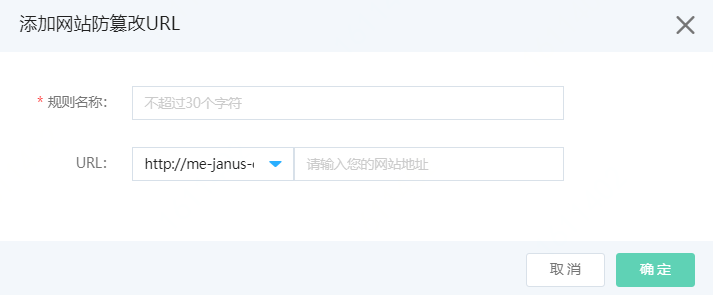
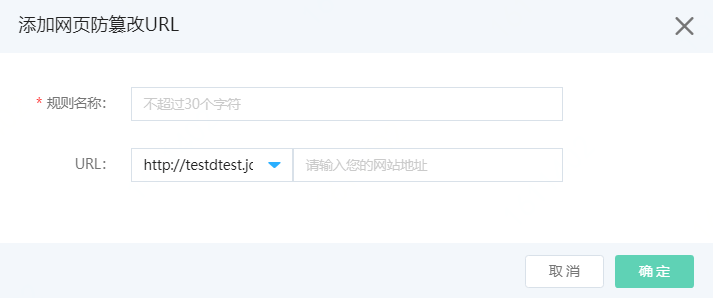
update toc and others

diff --git a/documentation/Cloud-Security/Web-Application-Firewall/Web-Protection-Configure/Access-Control/Set-Up-Blacklist-Rules.md b/documentation/Cloud-Security/Web-Application-Firewall/Web-Protection-Configure/Access-Control/Set-Up-Blacklist-Rules.md
@@ -17,6 +17,12 @@
 - Method黑名单帮助您阻断指定请求方法的访问请求。
 - Cookie黑名单帮助您阻断携带指定Cookie信息的访问请求。
 
+包年包月开通的Web应用防火墙实例，其黑名单功能有以下限制。
+
+| 功能       | 说明                             | 高级版   | 企业版   | 旗舰版   |
+| :--------- | :------------------------------- | :------- | :------- | :------- |
+| 黑名单规则 | 最多支持添加的黑名单规则的数量。 | 20（条） | 50（条） | 50（条） |
+
 ## 操作步骤
 
 1. 登录[Web应用防火墙控制台](https://cloudwaf-console.jdcloud.com/overview/business)。
@@ -44,10 +50,10 @@
        ![image](../../../../../image/WAF/protect-configure/13.Black-List-Geo.png)
 
    - **URI黑名单**：URI类型支持填写指定URI，匹配类型可以选择完全匹配、前缀匹配、正则匹配。当请求的目标URL命中匹配规则，选择执行：**封禁**、**302跳转**或**验证码**。配置完成后，单击页面下方的**确定**。
-  ![image](../../../../../image/WAF/protect-configure/15.Black-List-URI.png)
+    ![image](../../../../../image/WAF/protect-configure/15.Black-List-URI.png)
    
 - **Method黑名单**：请求方法类型支持选择匹配值：GET、POST、HEAD、PUT、DELETE、PATCH、COPY、OPTIONS、LINK、UNLINK、PURGE、LOCK、UNOCK、PROPFIND、VIEW。请求Method命中方法后，可以选择执行：**封禁**、**302跳转**或**验证码**。配置完成后，单击页面下方的**确定**。
-     ![image](../../../../../image/WAF/protect-configure/14.Black-List-Method.png)
+     	![image](../../../../../image/WAF/protect-configure/14.Black-List-Method.png)
 
    - **Cookie黑名单**：添加cookie类型黑名单，根据请求Cookie添加匹配规则：
 
@@ -56,34 +62,34 @@
      - 匹配类型：可选完全匹配、前缀匹配或正则匹配
 
      - 匹配值：待匹配字符串
-   
+  
      - 规则执行：可选择**封禁**、**302跳转**或**验证码**。
-   
+  
        配置完成后，单击页面下方的**确定**。
 
      ![image](../../../../../image/WAF/protect-configure/16.Black-List-Cookie.png)
-   
+  
    - **Header黑名单：**添加Header类型黑名单，根据请求Header的key添加匹配规则：
-   
+  
      - key：指Header的key，可选择，可编辑。
-   
+  
      - 匹配类型：可选完全匹配、前缀匹配或正则匹配。
-   
+  
      - 匹配值：待匹配字符串。
-   
+  
      - 规则执行：可选择**封禁**、**302跳转**或**验证码**。
-   
+  
        配置完成后，单击页面下方的**确定**。
-   
-   ![image](../../../../../image/WAF/protect-configure/17.Black-List-Header.png)
-   
+     
+     ![image](../../../../../image/WAF/protect-configure/17.Black-List-Header.png)
+  
    执行动作，如下表
-   
-   | 执行动作 | 配置                                            | 动作含义                                                     |
-   | -------- | ----------------------------------------------- | ------------------------------------------------------------ |
-   | 拦截     | 默认返回493页面，点击右侧笔，支持自定义拦截页面 | 对于命中规则的请求，将被拦截返回配置页面                     |
-   | 302跳转  | 配置跳转的目标页面                              | 对于命中规则的请求，跳转到配置的目标页面                     |
-   | 验证码   | 无需配置                                        | 对于命中规则的请求，弹出验证码二次校验，验证通过可以访问，不通过则拦截。 |
-   
+  
+  | 执行动作 | 配置                                            | 动作含义                                                     |
+  | -------- | ----------------------------------------------- | ------------------------------------------------------------ |
+  | 拦截     | 默认返回493页面，点击右侧笔，支持自定义拦截页面 | 对于命中规则的请求，将被拦截返回配置页面                     |
+  | 302跳转  | 配置跳转的目标页面                              | 对于命中规则的请求，跳转到配置的目标页面                     |
+  | 验证码   | 无需配置                                        | 对于命中规则的请求，弹出验证码二次校验，验证通过可以访问，不通过则拦截。 |
+  
    成功添加黑名单规则后，规则默认不开启。您可以在规则列表中看到新建的规则，且其**防护状态**开关未开启。
 

diff --git a/documentation/Cloud-Security/Web-Application-Firewall/Web-Protection-Configure/Access-Control/Set-Up-Whitelist-Rules.md b/documentation/Cloud-Security/Web-Application-Firewall/Web-Protection-Configure/Access-Control/Set-Up-Whitelist-Rules.md
@@ -11,6 +11,12 @@
 
 白名单支持添加Method、URI、IP、Cookie、Geo（地理区域）、Header等维度的白名单。一般应用于放行因触发规则被误拦截的特殊业务请求，可以直接放行或者选择不检测对应的模块。
 
+包年包月开通的Web应用防火墙实例，其白名单功能有以下限制。
+
+| 功能       | 说明                             | 高级版   | 企业版   | 旗舰版   |
+| :--------- | :------------------------------- | :------- | :------- | :------- |
+| 白名单规则 | 最多支持添加的白名单规则的数量。 | 20（条） | 50（条） | 50（条） |
+
 ## 操作步骤
 
 1. 登录[Web应用防火墙控制台](https://cloudwaf-console.jdcloud.com/overview/business)。
@@ -33,9 +39,10 @@
 
      - 选择中国大陆时，可以选择地域匹配值，请求IP所属地区命中地域后，可以选择直接放行，或者选择后续执行阶段。配置完成后，单击页面下方的**确定**。
      - 选择海外地区时，请求IP所属地区命中海外地域后，可以选择直接放行，或者选择后续执行阶段。配置完成后，单击页面下方的**确定**。
-
-![image](../../../../../image/WAF/protect-configure/25.White-List-Geo.png)
      
+     ![image](../../../../../image/WAF/protect-configure/25.White-List-Geo.png)
+          
+
 - **URI白名单**：URI类型支持填写目标URI，匹配类型可以选择完全匹配、前缀匹配、正则匹配。可以选择直接放行，或者选择后续执行阶段。配置完成后，单击页面下方的**确定**。
   
   ![image](../../../../../image/WAF/protect-configure/22.White-List-URI.png)

diff --git a/documentation/Cloud-Security/Web-Application-Firewall/Web-Protection-Configure/Web-Compliance/Set-Up-Sensitive-Information-Leakage-Prevention.md b/documentation/Cloud-Security/Web-Application-Firewall/Web-Protection-Configure/Web-Compliance/Set-Up-Sensitive-Information-Leakage-Prevention.md
@@ -11,6 +11,12 @@
 
 敏感信息防泄漏功能是Web应用防火墙针对网安法提出的“网络运营者应当采取技术措施和其他必要措施，确保其收集的个人信息安全，防止信息泄露、毁损、丢失。在发生或者可能发生个人信息泄露、毁损、丢失的情况时，应当立即采取补救措施，按照规定及时告知用户并向有关主管部门报告”所给出的安全防护方案。敏感信息防泄漏针对网站中存在的敏感信息（尤其是电话号码、身份证、信用卡）泄漏、敏感词汇泄露提供脱敏和告警措施。
 
+包年包月开通的Web应用防火墙实例，其敏感信息防泄漏功能有以下限制。
+
+| 功能           | 说明                                     | 高级版   | 企业版   | 旗舰版   |
+| :------------- | :--------------------------------------- | :------- | :------- | :------- |
+| 敏感信息防泄漏 | 最多支持添加的敏感信息防泄漏规则的数量。 | 10（条） | 20（条） | 20（条） |
+
 ## **工作原理**
 
 敏感信息防泄露按照配置好的防护规则，检测响应页面中是否带有身份证号、电话号码、银行卡号等敏感信息，并在发现敏感信息匹配命中后，根据规则中指定的匹配动作触发告警或者敏感信息过滤。敏感信息过滤动作指以*号替换敏感信息部分，达到保护敏感信息的效果。

diff --git a/documentation/Cloud-Security/Web-Application-Firewall/Web-Protection-Configure/Access-Control/Set-Up-Speed-Limit.md b/documentation/Cloud-Security/Web-Application-Firewall/Web-Protection-Configure/Access-Control/Set-Up-Speed-Limit.md
@@ -4,7 +4,7 @@
 
 ## 前提条件
 
-- 已开通Web应用防火墙实例，实例套餐必须是高级版及以上规格，更多信息，请参见[开通Web应用防火墙](https://docs.jdcloud.com/cn/web-application-firewall/purchase-process)。
+- 已开通Web应用防火墙实例，更多信息，请参见[开通Web应用防火墙](https://docs.jdcloud.com/cn/web-application-firewall/purchase-process)。
 - 已完成网站接入。更多信息，请参见[添加域名](https://docs.jdcloud.com/cn/web-application-firewall/step-1)。
 
 ## 背景信息
@@ -15,9 +15,9 @@
 
 包年包月开通的Web应用防火墙实例，其限速功能有以下限制。
 
-| 功能         | 说明                             | 旗舰版   | 企业版   | 高级版   |
-| :----------- | :------------------------------- | :------- | :------- | :------- |
-| 限速规则数量 | 最多支持添加的自定义规则的数量。 | 20（条） | 20（条） | 10（条） |
+| 功能     | 说明                           | 高级版   | 企业版   | 旗舰版   |
+| :------- | :----------------------------- | :------- | :------- | :------- |
+| 限速规则 | 最多支持添加的限速规则的数量。 | 10（条） | 20（条） | 20（条） |
 
 ## 操作步骤
 

diff --git a/documentation/Cloud-Security/Web-Application-Firewall/Web-Protection-Configure/Web-Compliance/Set-Up-Anti-Tampering-Of-Web-Pages.md b/documentation/Cloud-Security/Web-Application-Firewall/Web-Protection-Configure/Web-Compliance/Set-Up-Anti-Tampering-Of-Web-Pages.md
@@ -4,13 +4,18 @@
 
 ## 前提条件
 
-- 已开通Web应用防火墙实例，实例套餐必须是高级版及以上规格。
+- 已开通Web应用防火墙实例，更多信息，请参见[开通Web应用防火墙](https://docs.jdcloud.com/cn/web-application-firewall/purchase-process)。
 
 - 已完成网站接入。更多信息，请参见[添加域名]()。
 
-  | 规格               | 说明                                 | 旗舰版   | 企业版   | 高级版   |
-  | :----------------- | :----------------------------------- | :------- | :------- | :------- |
-  | 网页防篡改规则数量 | 最多支持添加的网页防篡改规则的数量。 | 50（条） | 20（条） | 10（条） |
+
+## 使用限制
+
+包年包月开通的Web应用防火墙实例，其网页防篡改功能有以下限制。
+
+| 功能       | 说明                               | 高级版   | 企业版   | 旗舰版   |
+| :--------- | :--------------------------------- | :------- | :------- | :------- |
+| 网页防篡改 | 最多支持添加网页防篡改规则的数量。 | 10（条） | 20（条） | 50（条） |
 
 ## 操作步骤
 

diff --git a/documentation/Cloud-Security/Web-Application-Firewall/Web-Protection-Configure/Traffic-Management/Set-Up-Request-Header-Modify.md b/documentation/Cloud-Security/Web-Application-Firewall/Web-Protection-Configure/Traffic-Management/Set-Up-Request-Header-Modify.md
@@ -7,6 +7,14 @@ Web应用防火墙支持请求头的增删改。可以应用到服务端流量tr
 - 已开通Web应用防火墙实例，更多信息，请参见[开通Web应用防火墙](https://docs.jdcloud.com/cn/web-application-firewall/purchase-process)。
 - 已完成网站接入。更多信息，请参见[添加域名](https://docs.jdcloud.com/cn/web-application-firewall/step-1)。
 
+## 使用限制
+
+包年包月开通的Web应用防火墙实例，其请求头修改功能有以下限制。
+
+| 功能       | 说明                               | 高级版   | 企业版   | 旗舰版   |
+| :--------- | :--------------------------------- | :------- | :------- | :------- |
+| 请求头修改 | 最多支持添加请求头修改规则的数量。 | 10（条） | 20（条） | 50（条） |
+
 ## 操作步骤
 
 1. 登录[Web应用防火墙控制台](https://cloudwaf-console.jdcloud.com/overview/business)。

diff --git a/documentation/Cloud-Security/Web-Application-Firewall/Web-Protection-Configure/Web-Compliance/Set-Up-Web-Cache.md b/documentation/Cloud-Security/Web-Application-Firewall/Web-Protection-Configure/Web-Compliance/Set-Up-Web-Cache.md
@@ -8,9 +8,12 @@
 
 - 已完成网站接入。更多信息，请参见[添加域名]()。
 
-  | 规格             | 说明                               | 旗舰版   | 企业版   | 高级版   |
-  | :--------------- | :--------------------------------- | :------- | :------- | :------- |
-  | 网页缓存规则数量 | 最多支持添加的网页缓存规则的数量。 | 50（条） | 20（条） | 10（条） |
+
+包年包月开通的Web应用防火墙实例，其网页缓存功能有以下限制。
+
+| 功能     | 说明                               | 高级版   | 企业版   | 旗舰版   |
+| :------- | :--------------------------------- | :------- | :------- | :------- |
+| 网页缓存 | 最多支持添加的网页缓存规则的数量。 | 10（条） | 20（条） | 20（条） |
 
 ## 操作步骤
 
